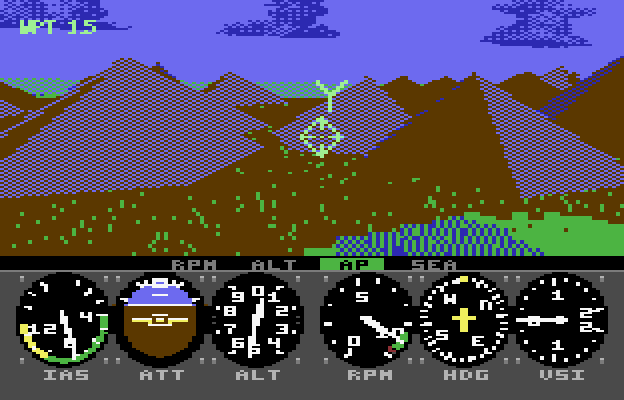
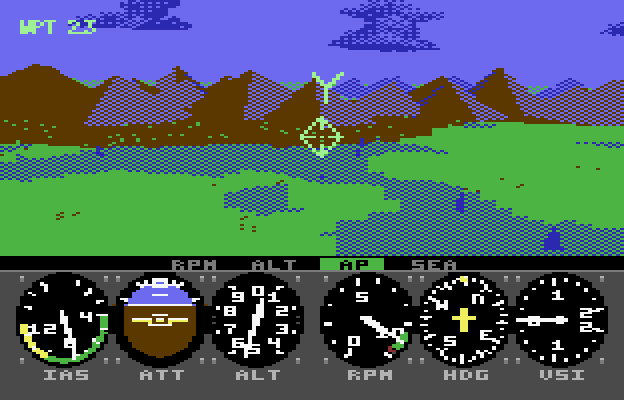
README screenshots from the new floor renderer
- docs/images/battle.png: chopper wrecks (1 s) re-rendered: checkerboard dithers, no mip level 0
- docs/images/mountains.png: tick 6200 (tick 9300 no longer flies by the ridge since the war's course moved), caption to match
- host frames (byte-exact with the C64's), 2x nearest-neighbour, 624x400

diff --git a/README.md b/README.md
@@ -72,7 +72,7 @@ Eighty seconds later the RPM caution goes out, and where you take the war is up 
   in flight and your copilot, the same pilot, holds your course and keeps you off the mountains. Shot
   down or ditched, you are back on the deck or the pad, and the war has not waited for you.
 
-![Low over the ridge: mountains, the HUD and the six gauges](docs/images/mountains.png)
+![Across the valley to the ridge: mountains, the HUD and the six gauges](docs/images/mountains.png)
 
 ## Controls
 
